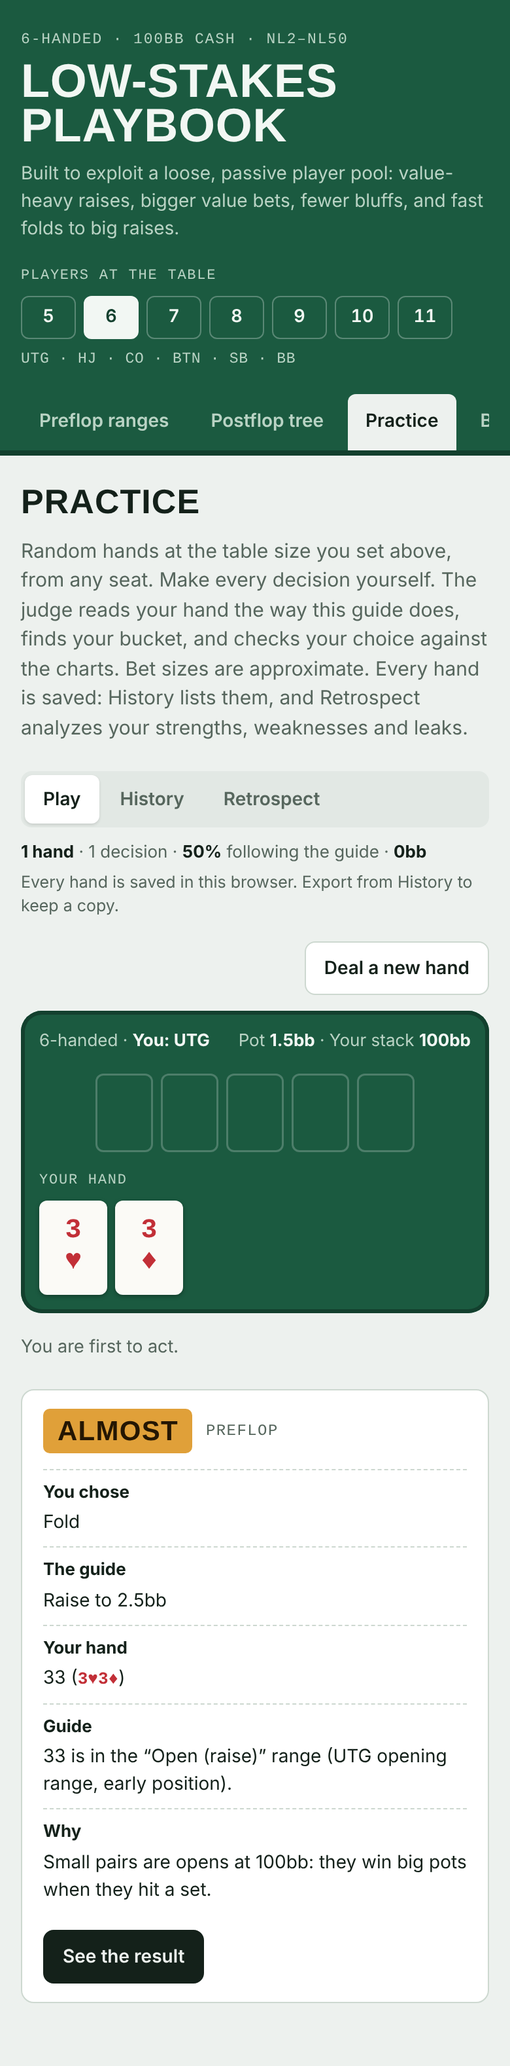
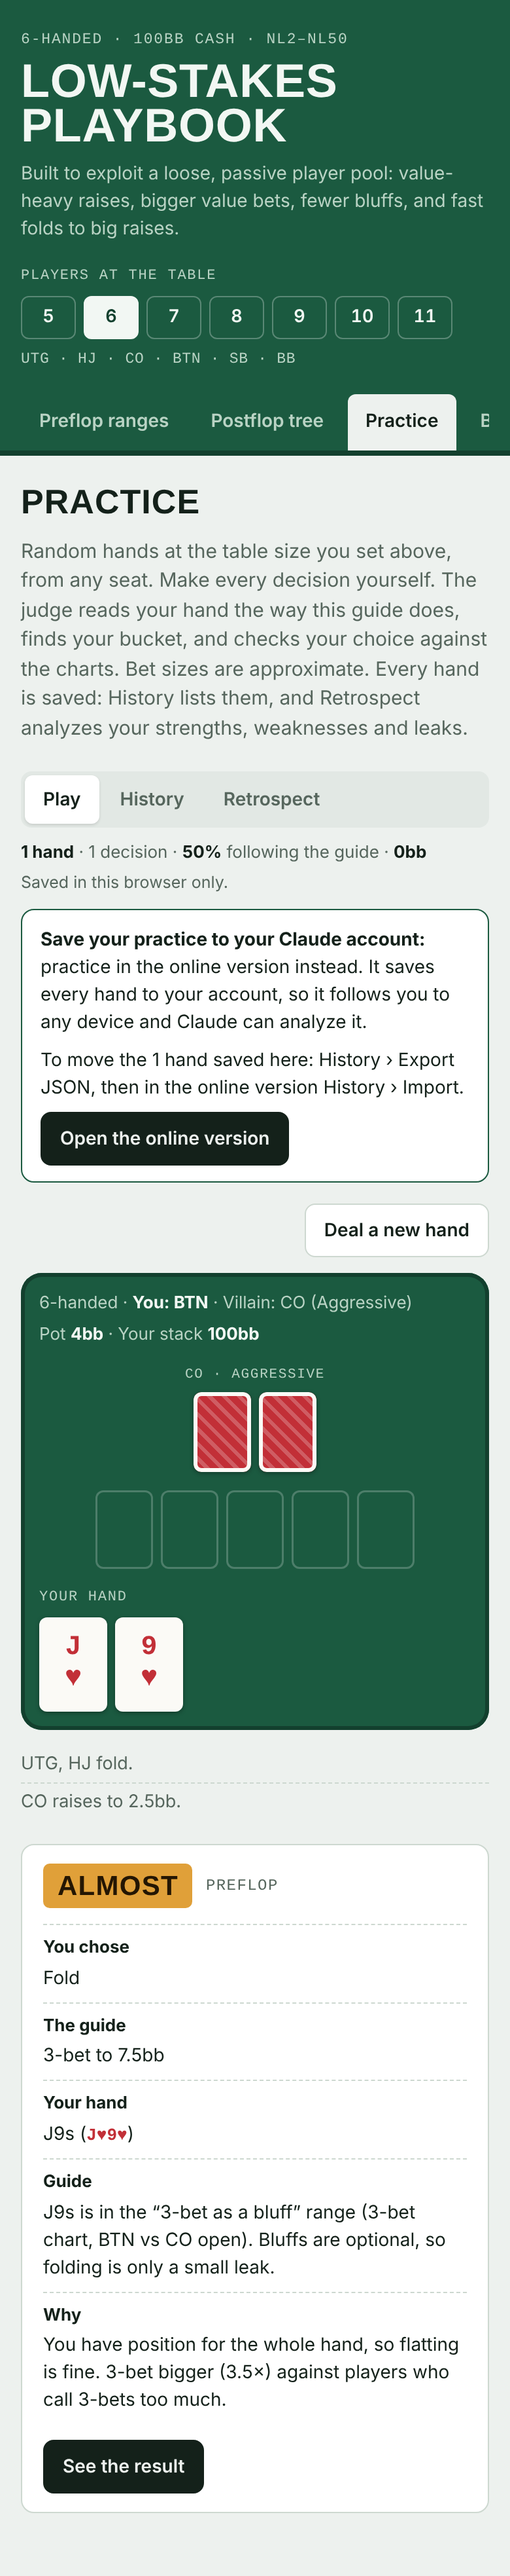
Local copy points to the online version for saving practice
Claude-Session: https://claude.ai/code/session_01FrRpzio8HKsxuYYjwiucjn

Changed region(s): [[0.0, 0.0, 1.0, 0.9937], [0.8, 0.5279, 0.8308, 0.5589]]

diff --git a/dist/low-stakes-poker-playbook.html b/dist/low-stakes-poker-playbook.html
@@ -365,6 +365,11 @@ table.days td,table.days th{white-space:nowrap}
 .hd-read{font-size:12.5px;color:var(--muted)}
 .mw-sub{display:grid;gap:4px;padding:0 0 6px}
 .mw-h{font-weight:700;font-size:13.5px;padding:10px 16px 0}
+
+.online-banner{background:var(--surface);border:1px solid var(--green-ink);border-radius:10px;padding:12px 14px;display:grid;gap:8px;justify-items:start;font-size:14px}
+.online-banner p{margin:0}
+.online-banner p:empty{display:none}
+a.btn{text-decoration:none;display:inline-block}
 </style>
 </head>
 <body>
@@ -3428,7 +3433,7 @@ function totals() {
 function savedText() {
   if (store.kind === "loading") return "Opening your practice history…";
   if (store.kind === "cloud") return "Every hand is saved to your Claude account, private to you.";
-  if (store.kind === "local") return "Every hand is saved in this browser. Export from History to keep a copy.";
+  if (store.kind === "local") return "Saved in this browser only.";
   return "This browser blocks storage, so hands are kept only until you close the page. Export from History to keep them.";
 }
 function head() {
@@ -3442,7 +3447,16 @@ function head() {
       return '<button data-view="' + v[0] + '" aria-pressed="' + (view === v[0]) + '">' + v[1] + "</button>";
     }).join("") + "</div>" +
     '<div class="pr-meta"><span class="pr-stats">' + stats + '</span><span class="pr-saved' + (store.error ? " warn" : "") + '">' + esc(store.error || savedText()) + "</span></div>" +
+    (store.kind === "local" && !window.claude ? onlineBanner() : "") +
   "</div>";
+}
+
+// The local file can't reach your Claude account, so it points to the online version, where every hand is saved there.
+var ONLINE_URL = "https://claude.ai/artifact/89kfAdCx2AgpWvZ67kxTfB";
+function onlineBanner() {
+  return '<div class="online-banner"><p><b>Save your practice to your Claude account:</b> practice in the online version instead. It saves every hand to your account, so it follows you to any device and Claude can analyze it.</p>' +
+    '<p>' + (store.records.length ? "To move the " + plural(store.records.length, "hand", "hands") + " saved here: History › Export JSON, then in the online version History › Import." : "") + '</p>' +
+    '<a class="btn primary" href="' + ONLINE_URL + '" target="_blank" rel="noopener">Open the online version</a></div>';
 }
 
 /* ---------- Play ---------- */

diff --git a/js/trainer.js b/js/trainer.js
@@ -60,7 +60,7 @@ function totals() {
 function savedText() {
   if (store.kind === "loading") return "Opening your practice history…";
   if (store.kind === "cloud") return "Every hand is saved to your Claude account, private to you.";
-  if (store.kind === "local") return "Every hand is saved in this browser. Export from History to keep a copy.";
+  if (store.kind === "local") return "Saved in this browser only.";
   return "This browser blocks storage, so hands are kept only until you close the page. Export from History to keep them.";
 }
 function head() {
@@ -74,7 +74,16 @@ function head() {
       return '<button data-view="' + v[0] + '" aria-pressed="' + (view === v[0]) + '">' + v[1] + "</button>";
     }).join("") + "</div>" +
     '<div class="pr-meta"><span class="pr-stats">' + stats + '</span><span class="pr-saved' + (store.error ? " warn" : "") + '">' + esc(store.error || savedText()) + "</span></div>" +
+    (store.kind === "local" && !window.claude ? onlineBanner() : "") +
   "</div>";
+}
+
+// The local file can't reach your Claude account, so it points to the online version, where every hand is saved there.
+var ONLINE_URL = "https://claude.ai/artifact/89kfAdCx2AgpWvZ67kxTfB";
+function onlineBanner() {
+  return '<div class="online-banner"><p><b>Save your practice to your Claude account:</b> practice in the online version instead. It saves every hand to your account, so it follows you to any device and Claude can analyze it.</p>' +
+    '<p>' + (store.records.length ? "To move the " + plural(store.records.length, "hand", "hands") + " saved here: History › Export JSON, then in the online version History › Import." : "") + '</p>' +
+    '<a class="btn primary" href="' + ONLINE_URL + '" target="_blank" rel="noopener">Open the online version</a></div>';
 }
 
 /* ---------- Play ---------- */

diff --git a/css/styles.css b/css/styles.css
@@ -355,3 +355,8 @@ table.days td,table.days th{white-space:nowrap}
 .hd-read{font-size:12.5px;color:var(--muted)}
 .mw-sub{display:grid;gap:4px;padding:0 0 6px}
 .mw-h{font-weight:700;font-size:13.5px;padding:10px 16px 0}
+
+.online-banner{background:var(--surface);border:1px solid var(--green-ink);border-radius:10px;padding:12px 14px;display:grid;gap:8px;justify-items:start;font-size:14px}
+.online-banner p{margin:0}
+.online-banner p:empty{display:none}
+a.btn{text-decoration:none;display:inline-block}
